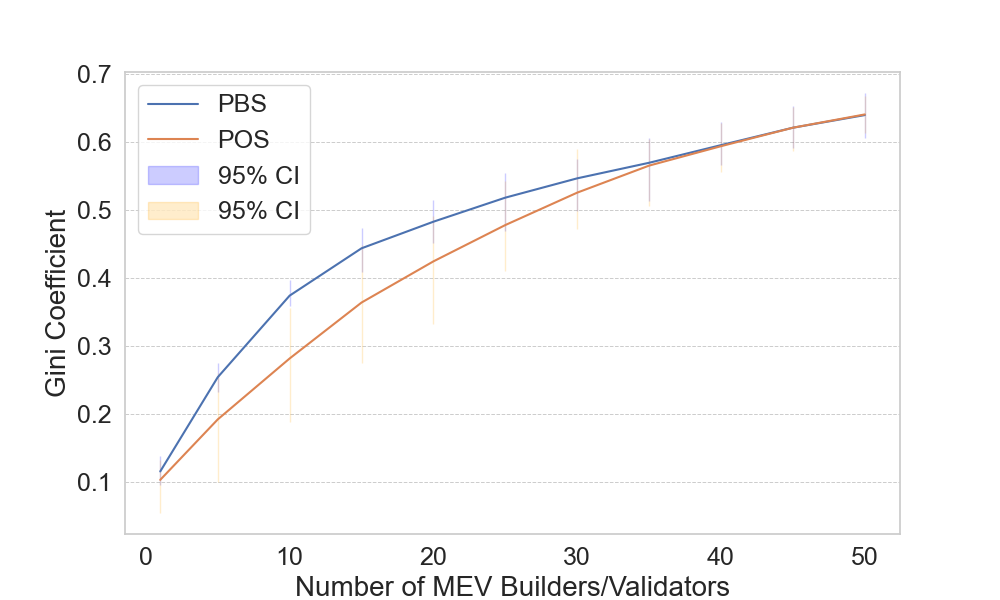
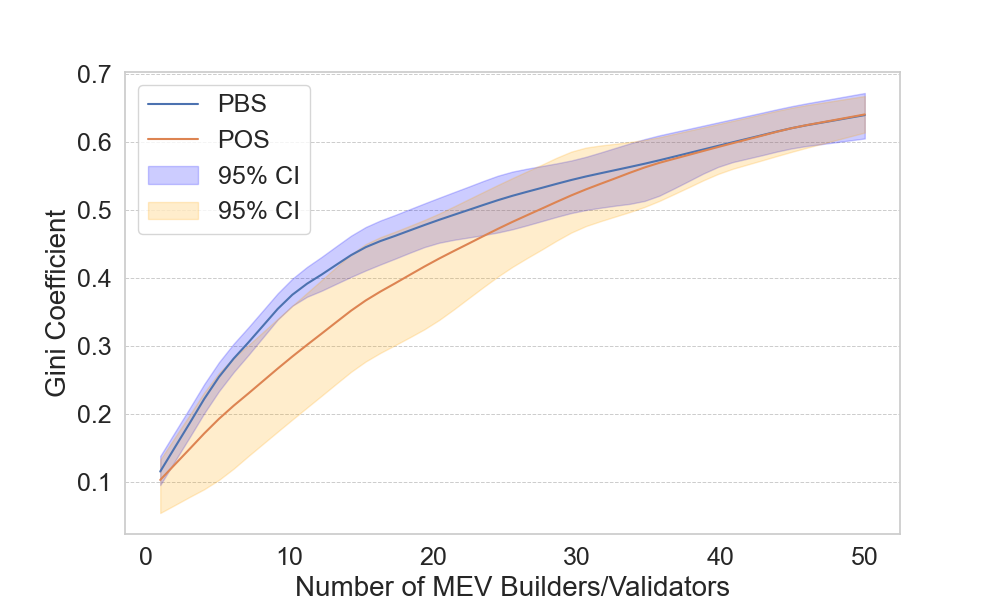
shade

Changed region(s): [[0.155, 0.15, 0.868, 0.87]]

diff --git a/plots/new/vary_user.py b/plots/new/vary_user.py
@@ -2,6 +2,8 @@ import pandas as pd
 import numpy as np
 import matplotlib.pyplot as plt
 import seaborn as sns
+from scipy.signal import savgol_filter
+from scipy.interpolate import interp1d
 import os
 
 sns.set_theme(style="whitegrid")
@@ -63,6 +65,13 @@ def calculate_gini_statistics(profits):
                 gini_stats[system][mev_count] = (np.nan, np.nan, np.nan)
     return gini_stats
 
+def interpolate_and_smooth(x, y, num_points=49, window_length=5, polyorder=2):
+    interp_func = interp1d(x, y, kind='linear', fill_value="extrapolate")
+    x_new = np.linspace(min(x), max(x), num_points)
+    y_new = interp_func(x_new)
+    y_smooth = savgol_filter(y_new, window_length, polyorder)
+    return x_new, y_smooth
+
 def plot_gini_with_confidence(data_dir, mev_counts, output_file):
     profits = load_profits(data_dir, mev_counts)
     gini_stats = calculate_gini_statistics(profits)
@@ -74,11 +83,21 @@ def plot_gini_with_confidence(data_dir, mev_counts, output_file):
     lower_ci_pos = [gini_stats['pos'].get(mc, (np.nan, np.nan, np.nan))[1] for mc in mev_counts]
     upper_ci_pos = [gini_stats['pos'].get(mc, (np.nan, np.nan, np.nan))[2] for mc in mev_counts]
 
+    valid_indices_pbs = [i for i, val in enumerate(gini_pbs) if not np.isnan(val)]
+    valid_indices_pos = [i for i, val in enumerate(gini_pos) if not np.isnan(val)]
+
+    x_pbs, y_pbs = interpolate_and_smooth(np.array(mev_counts)[valid_indices_pbs], np.array(gini_pbs)[valid_indices_pbs])
+    x_pos, y_pos = interpolate_and_smooth(np.array(mev_counts)[valid_indices_pos], np.array(gini_pos)[valid_indices_pos])
+    _, lower_ci_pbs_smooth = interpolate_and_smooth(np.array(mev_counts)[valid_indices_pbs], np.array(lower_ci_pbs)[valid_indices_pbs])
+    _, upper_ci_pbs_smooth = interpolate_and_smooth(np.array(mev_counts)[valid_indices_pbs], np.array(upper_ci_pbs)[valid_indices_pbs])
+    _, lower_ci_pos_smooth = interpolate_and_smooth(np.array(mev_counts)[valid_indices_pos], np.array(lower_ci_pos)[valid_indices_pos])
+    _, upper_ci_pos_smooth = interpolate_and_smooth(np.array(mev_counts)[valid_indices_pos], np.array(upper_ci_pos)[valid_indices_pos])
+
     fig, ax = plt.subplots(figsize=(10, 6))
-    sns.lineplot(x=mev_counts, y=gini_pbs, label='PBS', ax=ax)
-    sns.lineplot(x=mev_counts, y=gini_pos, label='POS', ax=ax)
-    ax.fill_between(mev_counts, lower_ci_pbs, upper_ci_pbs, color='blue', alpha=0.2, label='95% CI')
-    ax.fill_between(mev_counts, lower_ci_pos, upper_ci_pos, color='orange', alpha=0.2, label='95% CI')
+    sns.lineplot(x=x_pbs, y=y_pbs, label='PBS', ax=ax)
+    sns.lineplot(x=x_pos, y=y_pos, label='POS', ax=ax)
+    ax.fill_between(x_pbs, lower_ci_pbs_smooth, upper_ci_pbs_smooth, color='blue', alpha=0.2, label='95% CI')
+    ax.fill_between(x_pos, lower_ci_pos_smooth, upper_ci_pos_smooth, color='orange', alpha=0.2, label='95% CI')
 
     ax.set_xlabel('Number of MEV Builders/Validators', fontsize=20)
     ax.set_ylabel('Gini Coefficient', fontsize=20)
